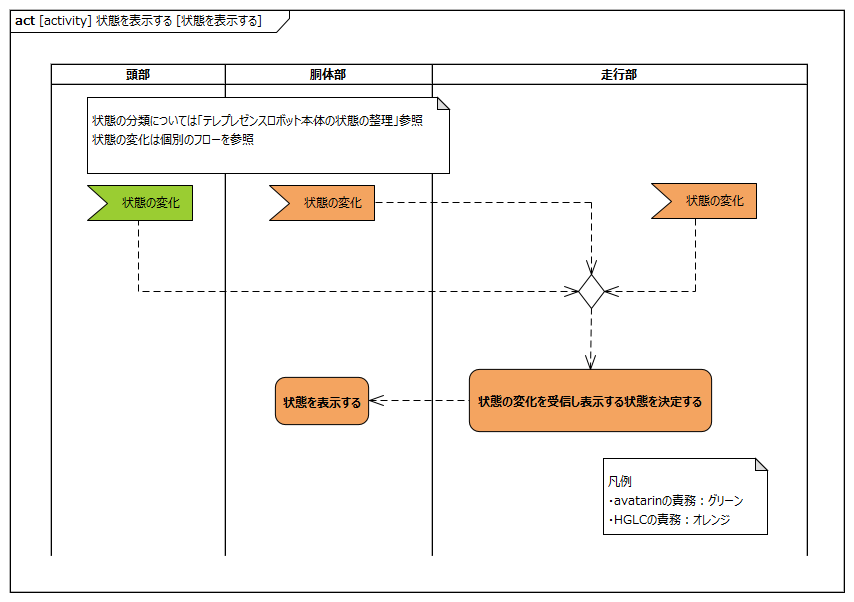
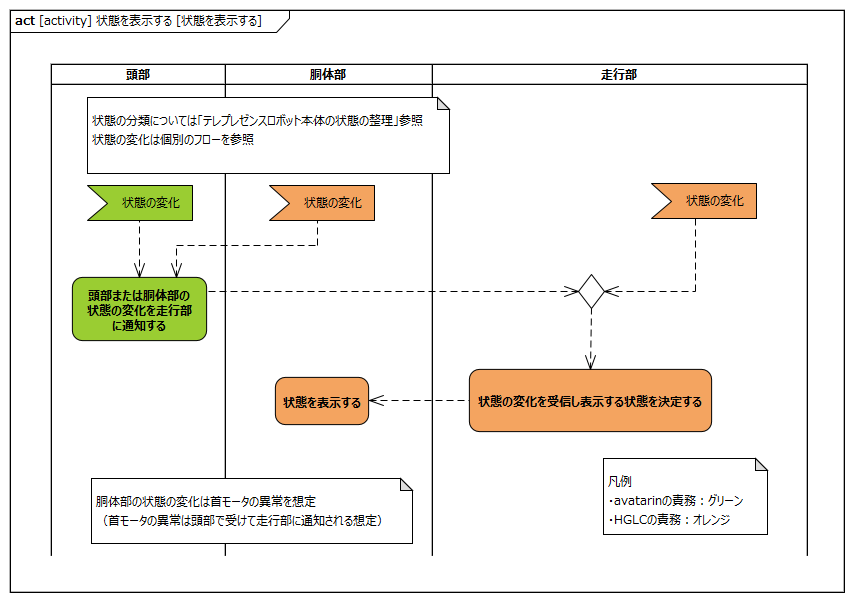
プルリク＃35（”状態を表示する”/”状態を通知する”のL2要求記述）の指摘対応 ・胴体部の状態の変化は頭部で受けて走行部に伝わるように修正 ・本アクティビティでは伝える情報は異常では無く状態の変化として表現を統一 ・頭部が受ける状態情報は走行部からであることを明示

diff --git a/requirements/requirement.md b/requirements/requirement.md
@@ -2,7 +2,7 @@
 title: テレプレゼンスロボット要求分析
 subtitle: L0/L1要求抽出
 author: 株式会社 豆蔵
-date: 2021年12月21日
+date: 2021年12月23日
 ---
 <!-- ↑表紙ページのための情報 -->
 
@@ -1701,8 +1701,8 @@ YES動作コマンドは首垂直動作に依存し、NO動作コマンドは首
 
 |要求|備考|
 |:---|:---|
-|頭部は状態の変化を検知したら走行部に状態情報を送信する||
-|胴体部は状態の変化を検知したら走行部に状態情報を送信する||
+|頭部は頭部または胴体部の状態の変化を検知したら走行部に状態情報を送信する|胴体部の状態変化は首モータの異常を想定|
+|胴体部は状態の変化を検知したら頭部に状態情報を送信する||
 |胴体部は状態を表示する|LEDランプを想定|
 |走行部は状態の変化を検知したら走行部に状態情報を送信する||
 |走行部は各部から状態の変化を受信し表示する状態を決定する|・表示する状態の分類については「テレプレゼンスロボット本体の状態の整理」章を参照<br/>・イベント（走行部に送られる状態の変化通知）は個別のフローを参照|
@@ -1734,7 +1734,7 @@ YES動作コマンドは首垂直動作に依存し、NO動作コマンドは首
 
 |要求|備考|
 |:---|:---|
-|頭部は状態情報を受けてアバタークラウドに送信する|・受け付ける状態情報については「状態を表示する」を参照|
+|頭部は走行部から状態情報を受けてアバタークラウドに送信する|・受け付ける状態情報については「状態を表示する」を参照|
 
 
 <div style="page-break-before:always"></div>

diff --git a/requirements/display_status.md b/requirements/display_status.md
@@ -2,7 +2,7 @@
 title: テレプレゼンスロボット要求分析
 subtitle: 「SysRS-12:状態を表示する」のL2要求抽出
 author: 株式会社 豆蔵
-date: 2021年12月21日
+date: 2021年12月23日
 ---
 <!-- ↑表紙ページのための情報 -->
 
@@ -48,13 +48,13 @@ date: 2021年12月21日
 
 <div style="page-break-before:always"></div>
 
-## 頭部は状態の変化を検知したら走行部に状態情報を送信する
+## 頭部は頭部または胴体部の状態の変化を検知したら走行部に状態情報を送信する
 
 avatarin側の責務のため、対象外とする。
 
 <div style="page-break-before:always"></div>
 
-## 胴体部は状態の変化を検知したら走行部に状態情報を送信する
+## 胴体部は状態の変化を検知したら頭部に状態情報を送信する
 
 ![](.images/activity/display_status/body-act01.png)
 
@@ -62,10 +62,10 @@ avatarin側の責務のため、対象外とする。
 
 |要求|備考|
 |:---|:---|
-|垂直モータは異常を検知し頭部に通知する|※1|
-|水平モータは異常を検知し頭部に通知する|※1|
+|垂直モータは状態の変化を検知し頭部に通知する|※1|
+|水平モータは状態の変化を検知し頭部に通知する|※1|
 
-※1:異常は頭部側で過電流・過電圧を検出する想定。
+※1:状態の変化は、垂直・水平モータの異常である想定。異常は頭部側で過電流・過電圧を検出する想定。
 
 <div style="page-break-before:always"></div>
 

diff --git a/requirements/notify_status.md b/requirements/notify_status.md
@@ -2,7 +2,7 @@
 title: テレプレゼンスロボット要求分析
 subtitle: 「SysRS-13:状態を通知する」のL2要求抽出
 author: 株式会社 豆蔵
-date: 2021年12月21日
+date: 2021年12月23日
 ---
 <!-- ↑表紙ページのための情報 -->
 
@@ -48,7 +48,7 @@ date: 2021年12月21日
 
 <div style="page-break-before:always"></div>
 
-## 頭部は状態情報を受けてアバタークラウドに送信する
+## 頭部は走行部から状態情報を受けてアバタークラウドに送信する
 
 avatarin側の責務のため、対象外とする。
 
